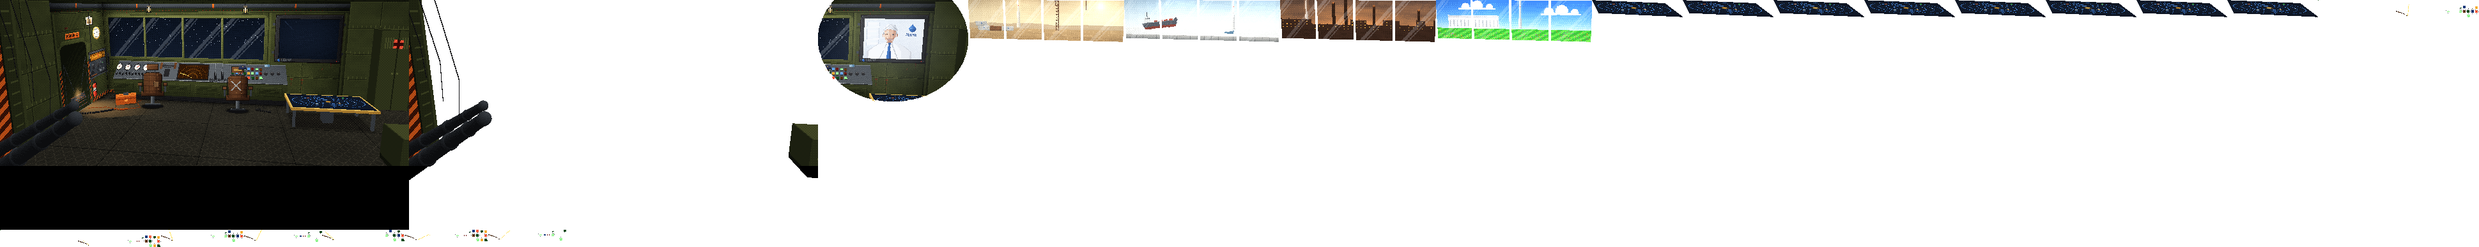
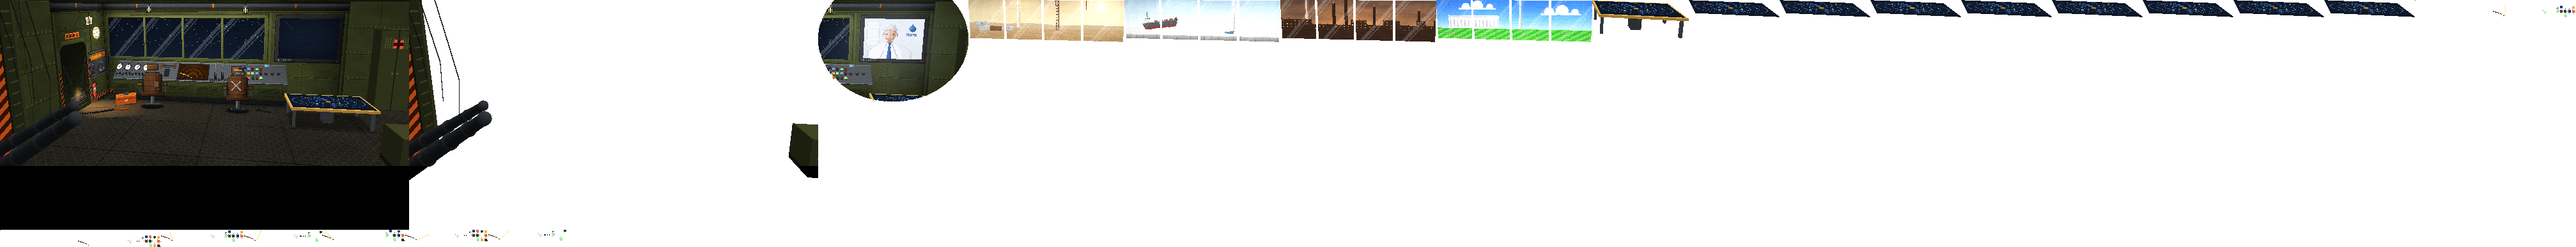
Aigua Verne: al pont, es passa per darrere de la taula del mapa, i ombra de contacte
- La taula del mapa és un forat al terra amb la seva capa del davant: s'hi pot
  caminar al voltant i per darrere, i qui hi és darrere queda tapat.
- Ombra de contacte sota els personatges, curta (la llum és de les dues
  bombetes del sostre).

diff --git a/games/aigua-verne/adapters/benne/tools/hd640/rooms/cantimplora_pont.py b/games/aigua-verne/adapters/benne/tools/hd640/rooms/cantimplora_pont.py
@@ -374,14 +374,20 @@ ANIMS = {
 }
 
 
-def _davant(x, y):
-    _, e = _base()
-    S = e.S
-    i = e.amo[(y * S + S // 2) * e.cv.w + x * S + S // 2]
-    return e.ids[i] == 'primer_pla'
+def _amo(ids):
+    def mask(x, y):
+        _, e = _base()
+        S = e.S
+        return e.ids[e.amo[(y * S + S // 2) * e.cv.w + x * S + S // 2]] in ids
+    return mask
 
 
-FRONT = {'mask': _davant, 'baseline': 999, 'zIndex': 20}
+# Capes del davant: el primer pla (sempre davant) i la taula del mapa (qui hi passa per darrere, hi queda darrere).
+FRONT = [
+    {'id': 'davant', 'mask': _amo({'primer_pla'}), 'baseline': 999, 'zIndex': 20},
+    {'id': 'davant_mapa', 'mask': _amo({'mapa', 'mapa_vidre'}),
+     'baseline': round(CAM.projecta(((MAPA[0] + MAPA[1]) / 2, 0, MAPA[2]))[1]), 'zIndex': 20},
+]
 
 
 # ─── Geometria (coordenades de sala, projectades) ────────────────────────────
@@ -397,10 +403,12 @@ def _rect_mon(*Ps):
             min(W - 1, round(max(p[0] for p in pts))), min(BOTTOM, round(max(p[1] for p in pts))))
 
 
-# El terra on es camina (al món): davant la consola i els seients, amb un clot per la taula del mapa i lluny de la
-# caixa del primer pla.
-WALK_MON = [(44, 230), (352, 230), (352, 172), (520, 172), (520, 128), (462, 128), (462, 112), (44, 112)]
+# El terra on es camina (al món): davant la consola i els seients, i al voltant de la taula del mapa (s'hi passa per
+# darrere: és un forat), lluny de la caixa del primer pla.
+WALK_MON = [(44, 230), (340, 230), (340, 262), (536, 262), (530, 200), (520, 128), (462, 128), (462, 112), (44, 112)]
 _WALK = [_p(x, z) for x, z in WALK_MON]
+_FORAT_MAPA = [_p(x, z) for x, z in ((MAPA[0] - 4, MAPA[2] - 4), (MAPA[1] + 4, MAPA[2] - 4), (MAPA[1] + 4, MAPA[3] + 4),
+                                      (MAPA[0] - 4, MAPA[3] + 4))]
 _V_FONS, _V_PROP = min(v for _, v in _WALK), max(v for _, v in _WALK)
 
 
@@ -435,7 +443,13 @@ GEOMETRIA = {
     },
     'spawns': {'capitana': _p(352, 226), 'iri': _p(250, 160), 'vet': _p(150, 182)},
     'walkable': _WALK,
+    'forats': [_FORAT_MAPA],
     'floorSquash': 0.45,                           # (la càmera, picada, a ≈1,9 m: el terra es veu aixafat)
+    # L'ombra de contacte: les dues bombetes del sostre (el punt del terra entre totes dues); curta, és llum de dalt.
+    'characterShadow': {'enabled': True, 'color': '#141810', 'alpha': 0.42, 'squash': 0.42, 'core': 0.6,
+                        'light': {'x': _p((LAMPS[0][0] + LAMPS[1][0]) / 2, LAMPS[0][1])[0],
+                                  'y': _p((LAMPS[0][0] + LAMPS[1][0]) / 2, LAMPS[0][1])[1], 'stretch': 0.5,
+                                  'reach': 140}},
     'regions': [{'id': 'perspectiva', 'active': True, 'scaleEnabled': True, 'scaleWalkSpeed': True,
                  'scaleTop': round(_escala_a(_V_FONS - 2), 3), 'scaleBottom': round(_escala_a(_V_PROP + 2), 3),
                  'points': [(0, _V_FONS - 2), (W - 1, _V_FONS - 2), (W - 1, _V_PROP + 2), (0, _V_PROP + 2)]}],
